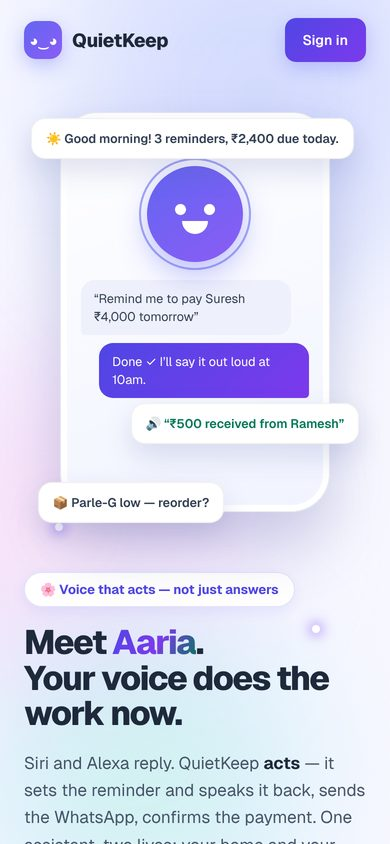
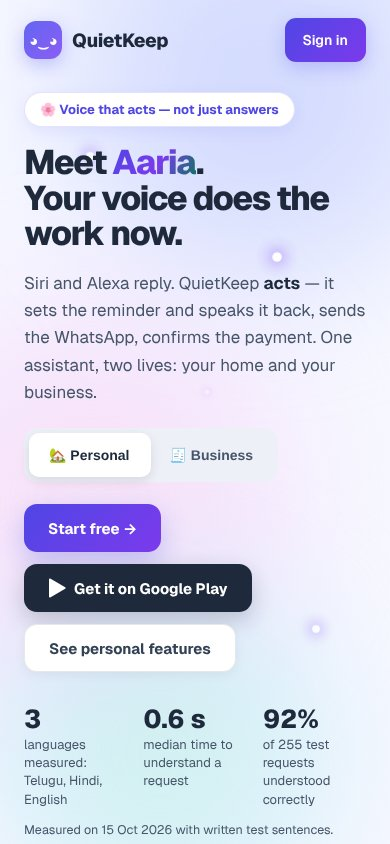
Home page on phones: headline and Start free first, phone drawing below
On screens under 900 px the phone drawing was moved above the headline,
so a phone visitor's first screen showed no headline and no button.
Phones are about three quarters of Indian web visits. The drawing now
follows the buttons, as on desktop.

Claude-Session: https://claude.ai/code/session_01YM32AjsvWnKu7FWGX8UVrx

diff --git a/src/app/home-client.jsx b/src/app/home-client.jsx
@@ -348,7 +348,7 @@ export default function HomePage() {
         @media(max-width:720px){.nav-links a:not(.nav-cta){display:none}}
 
         .hero{max-width:1180px;margin:0 auto;padding:36px 24px 40px;display:grid;grid-template-columns:1.05fr .95fr;gap:40px;align-items:center}
-        @media(max-width:900px){.hero{grid-template-columns:1fr;padding-top:12px}.hero-art{order:-1}}
+        @media(max-width:900px){.hero{grid-template-columns:1fr;padding-top:12px}.hero-art{min-height:400px}}
         .pill{display:inline-flex;gap:8px;align-items:center;background:#fff;border:1px solid rgba(99,102,241,.18);
           color:var(--ink);font-weight:700;font-size:13px;padding:8px 15px;border-radius:999px;box-shadow:0 4px 14px rgba(99,102,241,.1)}
         .hero h1{font-size:clamp(34px,5vw,54px);line-height:1.05;font-weight:800;letter-spacing:-1.5px;margin:18px 0 0}
